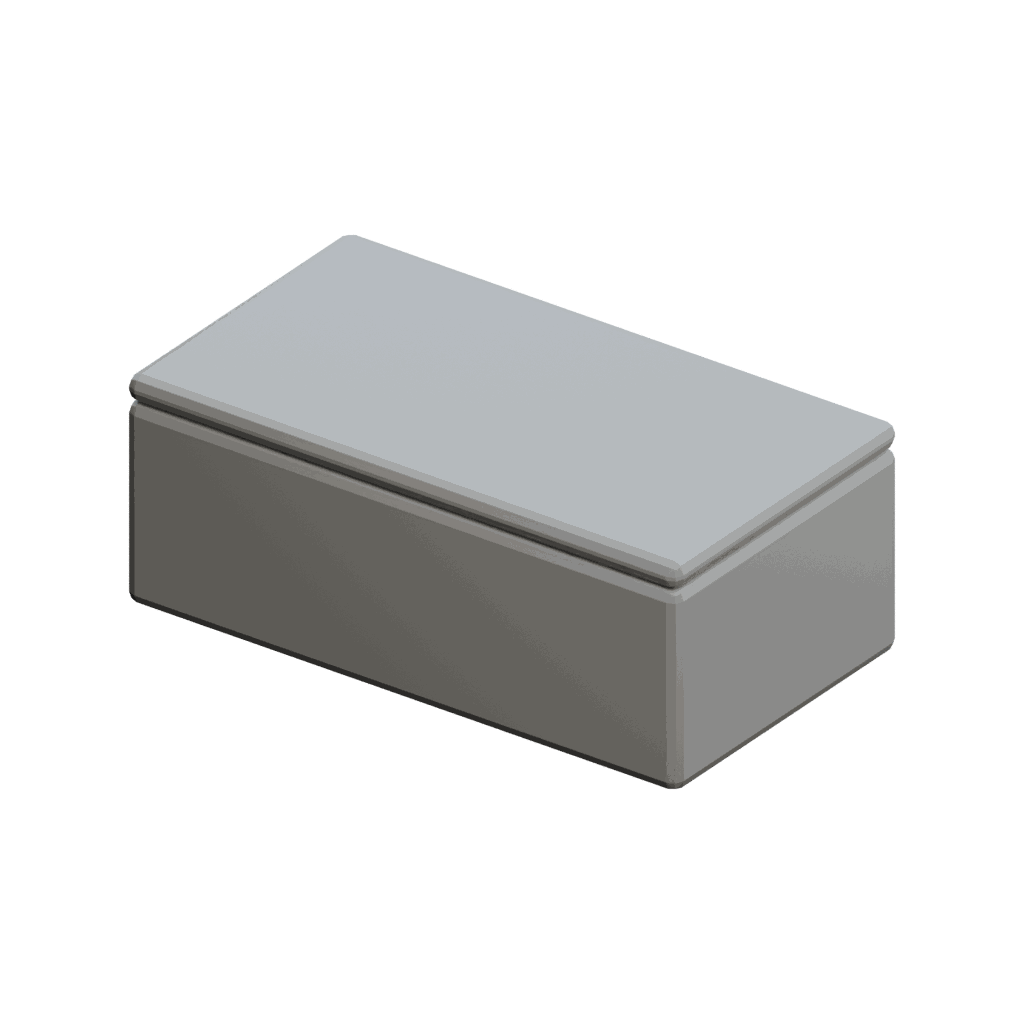
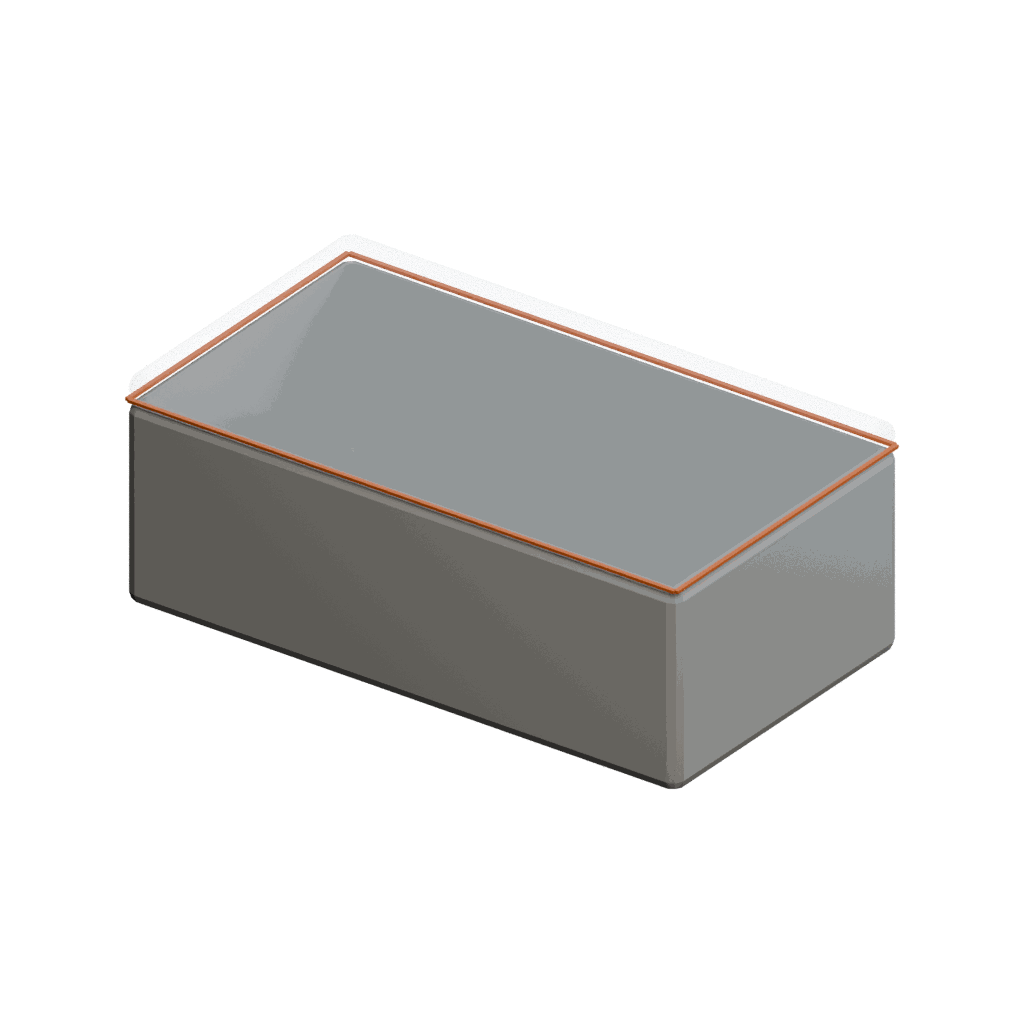
BLENDER waterproof case: clear polycarbonate lid and thin orange gasket

Changed region(s): [[0.125, 0.2188, 0.875, 0.5938]]

diff --git a/assets/blender/parts/create_library.py b/assets/blender/parts/create_library.py
@@ -366,7 +366,13 @@ def generate(key):
         block('ph_socket',(-43,0,3.1),(6,7,3),white,.15);finish(key)
     elif key=='waterproof_case_hammond_1554j2gy':
         begin(key,[160,89,61],None,['Wall thickness, lid seam and corner radii are small visual approximations, not a new seal or machining specification.'])
-        body=block('enclosure',(0,0,27),(160,89,54),white,3);cut(body,block('enclosure_cavity',(0,0,30),(154,83,54),black,2));block('lid',(0,0,57.5),(160,89,7),white,3)
+        body=block('enclosure',(0,0,27),(160,89,54),white,3);cut(body,block('enclosure_cavity',(0,0,30),(154,83,54),black,2))
+        clear_lid=material('frosted_polycarbonate',(.18,.32,.34),rough=.12);clear_lid.node_tree.nodes['Principled BSDF'].inputs['Alpha'].default_value=.04;clear_lid.surface_render_method='DITHERED'
+        gasket=material('orange_gasket',(1,.1946,.0103),rough=.72)
+        block('lid',(0,0,57.5),(160,89,7),clear_lid,3)
+        for yy in [-43.9,43.9]:block('lid_gasket_long',(0,yy,54.4),(158,1.2,.8),gasket)
+        for xx in [-79.4,79.4]:block('lid_gasket_end',(xx,0,54.4),(1.2,87.8,.8),gasket)
+        approximations.append('Human-approved clear/frosted polycarbonate lid and orange gasket visual variant; not a claim that the opaque 1554J2GY SKU includes that lid. Alpha-blended PBR, no transmission extension.')
         finish(key,heavy=True)
     else:raise ValueError('No dimensionally sourced generator for '+key)
 
